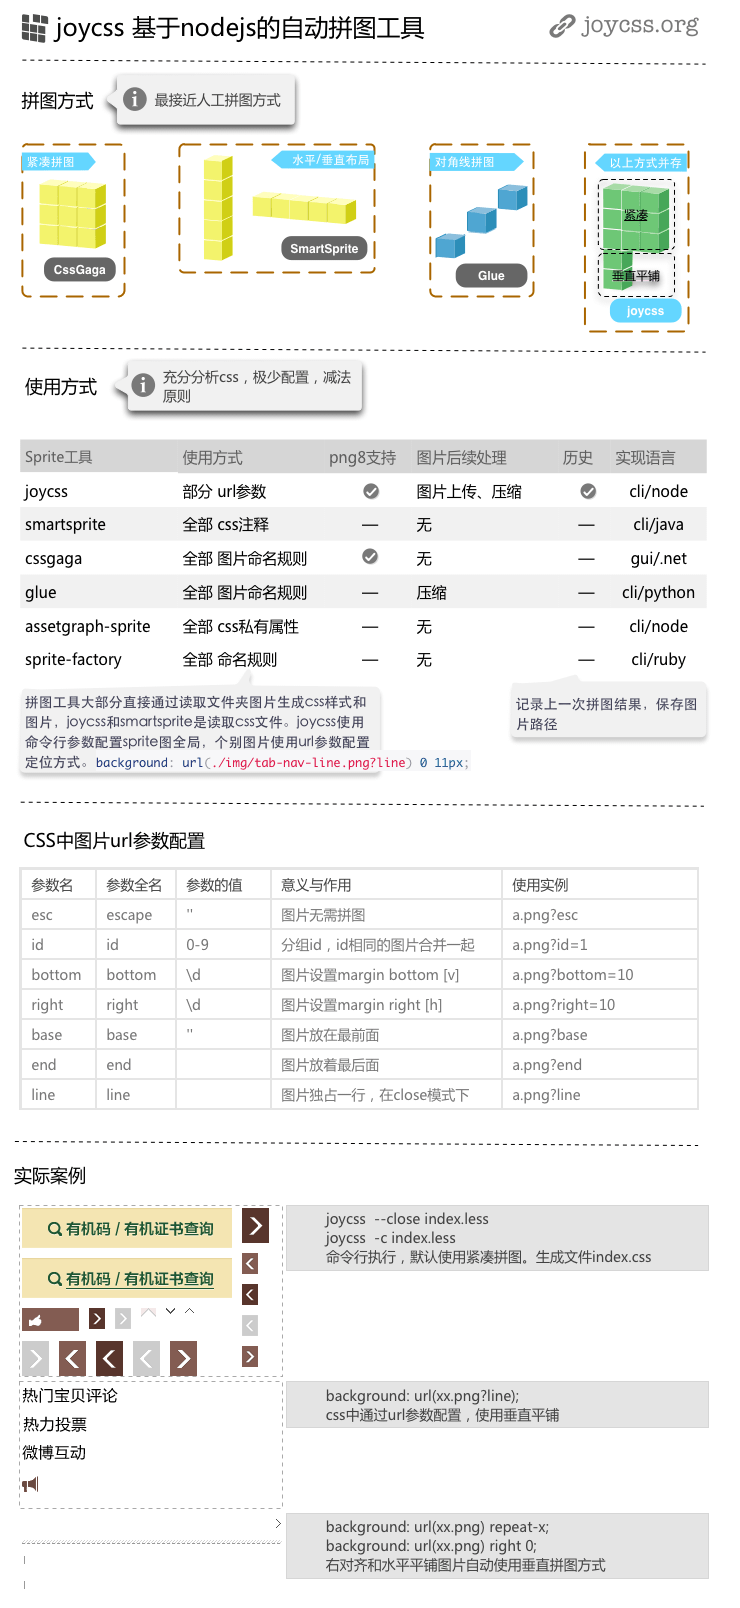
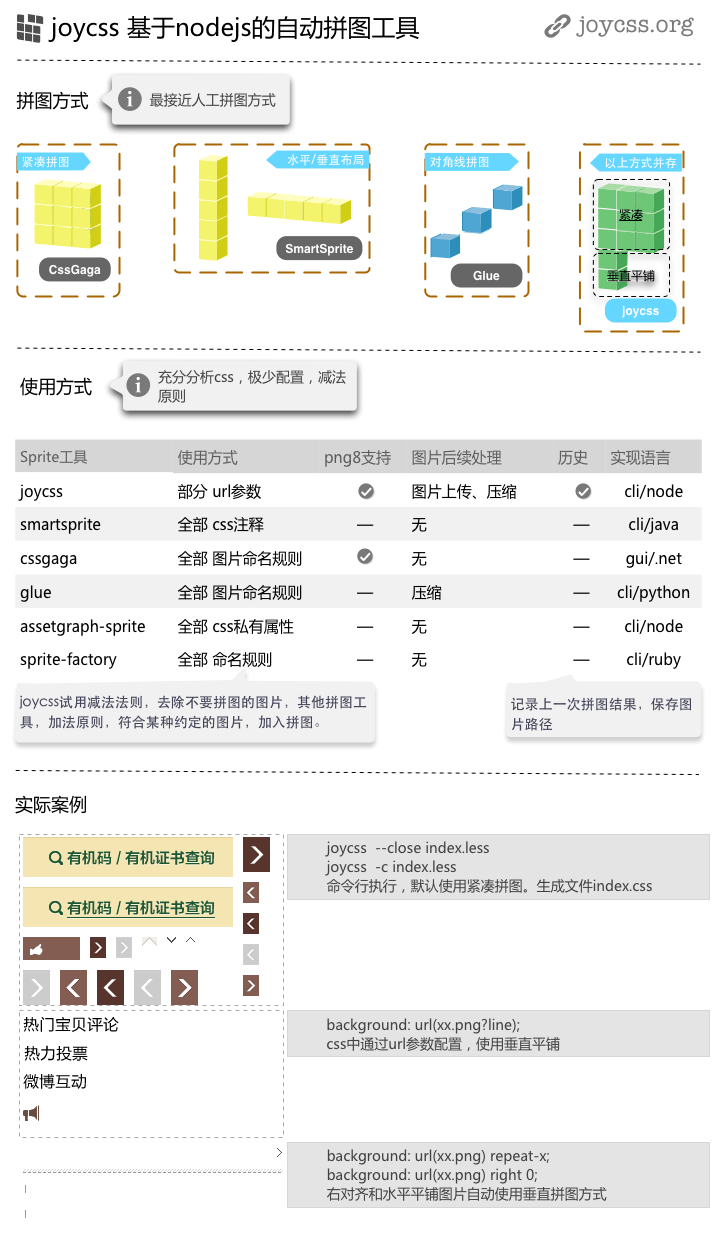
修改joycss.png

diff --git a/index.html b/index.html
@@ -25,10 +25,20 @@
         </div>
       </div>
       <div class="content-main">
-<h3 id="toc_0.0.0">一张图</h3>
-        <p>
-          <a href="./joycss.png" title="查看大图"><img src="./joycss.png" alt="joycss基本介绍" width="550" height="1195"/></a>
-        </p>
+<h3 id="toc_0.0.2">快速入门·Tutorials</h3>
+
+<p>
+直接上图。下面实际中应用中生成的sprite图，线上地址<a href="http://ny.taobao.com/">生态农业</a>。
+</p>
+<p>
+          <a href="./joycss.png" title="查看大图"><img src="./joycss.png" alt="joycss基本介绍" width="550" height="945"/></a>
+</p>
+
+<p>上面的例子，css原始文件<a href="https://github.com/shepherdwind/shepherdwind.github.com/blob/master/demo/joycss/nongye/index.css">源文件</a>,生成后的文件
+<a href="https://github.com/shepherdwind/shepherdwind.github.com/blob/master/demo/joycss/nongye/index.sprite.css">sprite文件</a>。
+</p>
+
+
 <h3 id="toc_0.0.1">简介·About</h3>
 
 
@@ -87,68 +97,6 @@ png8完全支持，和ps生成效果一致，使用pngquant生成png8图片。
 
 </ul>
   
-<h3 id="toc_0.0.2">快速入门·Tutorials</h3>
-
-<p>
-上面讲了那么多，总不过是空对空，可能读者也没有什么印象，不知所云，还是，直接
-上实例，一看就基本明白了。下面是实际中应用过程中生成的sprite图，线上地址<a href="http://ny.taobao.com/">生态农业</a>。
-</p>
-
-<p>
-<img src="./demo/joycss/nongye/sprites/close.png" alt="close" class="close" />
-<img src="./demo/joycss/nongye/sprites/close_MarkMan.png" alt="marked" class="maked" />
-</p>
-
-<p>
-左边是生成的图片，右边是标注说明。从右图，可以看到，上面是紧凑拼图区块，下面是
-垂直布局区块。执行命令<code>joycss -c index.less</code>，一共27张背景图，使用紧凑拼图为默
-认拼图方式，对于那些需要使用垂直布局的图片，需要增加url参数<code>?line</code>。
-</p>
-
-<pre class="prettyprint linenums lang-css">
-.shop-tabs .tab-nav {
-  padding: 0 8px;
-  background: url(./img/tab-nav-line.png?line) 0 11px no-repeat;
-}
-...
-.end-part .col-vote .vote-detial .vote-info {
-  background: url(./img/slice-12.png?line&amp;bottom=20) no-repeat 0 5px;
-  padding-left: 22px;
-  line-height: 20px;
-}
-...
-</pre>
-  
-<p>
-第7行除了有<code>line</code>参数外，还有<code>bottom=20</code>，对应标注图中2.3，下面留白20px，默认情
-况，bottom和right都是10px间距，如果3. 部分。上图中，还包含了右对齐(2.1)，水平方向
-平铺(2.2)。加上紧凑拼图和垂直拼图两者方式的一起使用，基本上就是joycss完整的功能了。
-最后看看生成的样式，完整的代码比较长，只放出一部分，完整的代码<a href="https://github.com/shepherdwind/shepherdwind.github.com/blob/master/demo/joycss/nongye/index.css">源文件</a>,
-<a href="https://github.com/shepherdwind/shepherdwind.github.com/blob/master/demo/joycss/nongye/index.sprite.css">sprite文件</a>。
-</p>
-
-<pre class="prettyprint linenums lang-css">
-.shop-tabs .tab-nav,
-.hd-aside .search,
-.hd-aside .search:hover,
-.hd-aside .dp-all .shop-info .arrow,
-.hd-aside .dp-all .ks-active .arrow,
-.hd-aside .dp-all .more-shop,
-.floors .line,
-.fl-hd .fl-tips,
-.end-part .col-vote h3,
-...
-.end-part .wb-navs .next.disabled {
-  background-image: url(./img/index-sprite8.png);
-  background-repeat: no-repeat;
-}
-.shop-tabs .tab-nav {
-  padding: 0 8px;
-  background-position: 0 -336px;
-}
-...
-</pre>
-
 <h3 id="toc_0.0.3">使用·Usage</h3>
 
 <p>
